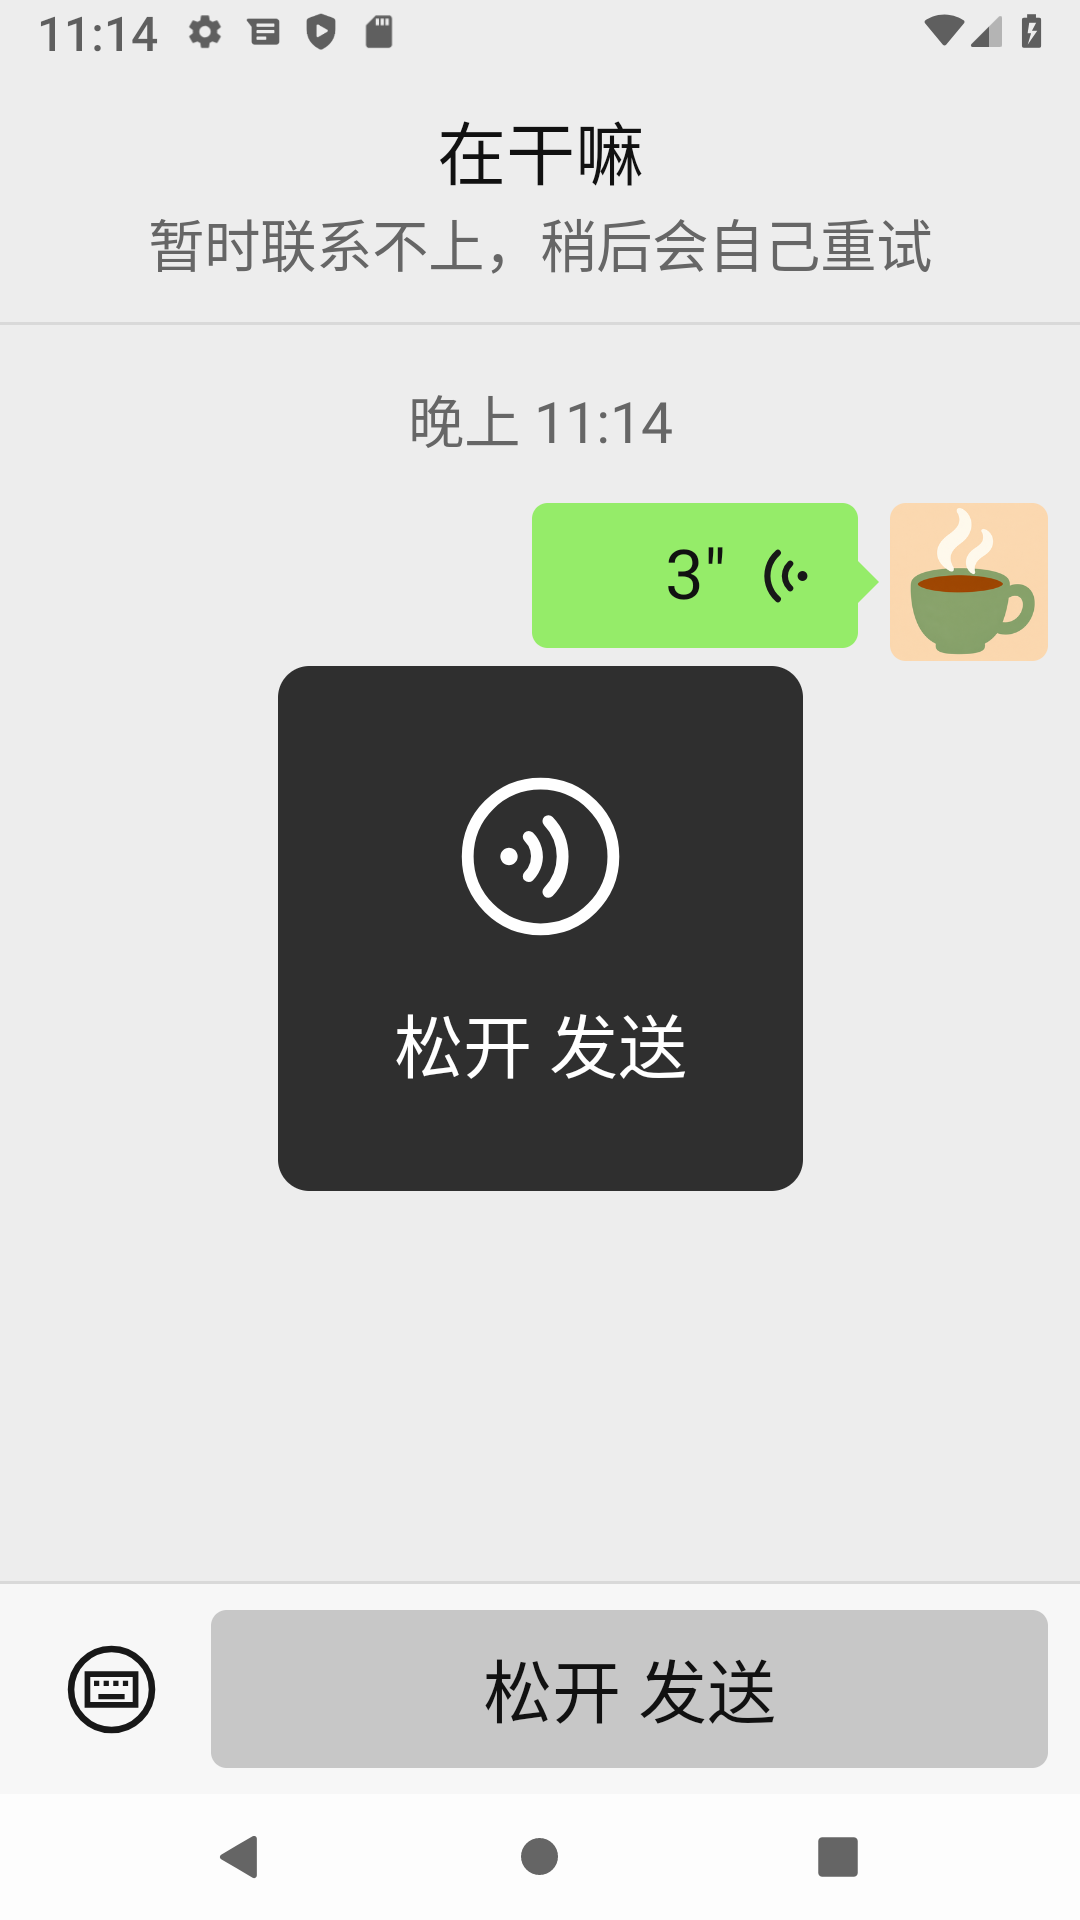
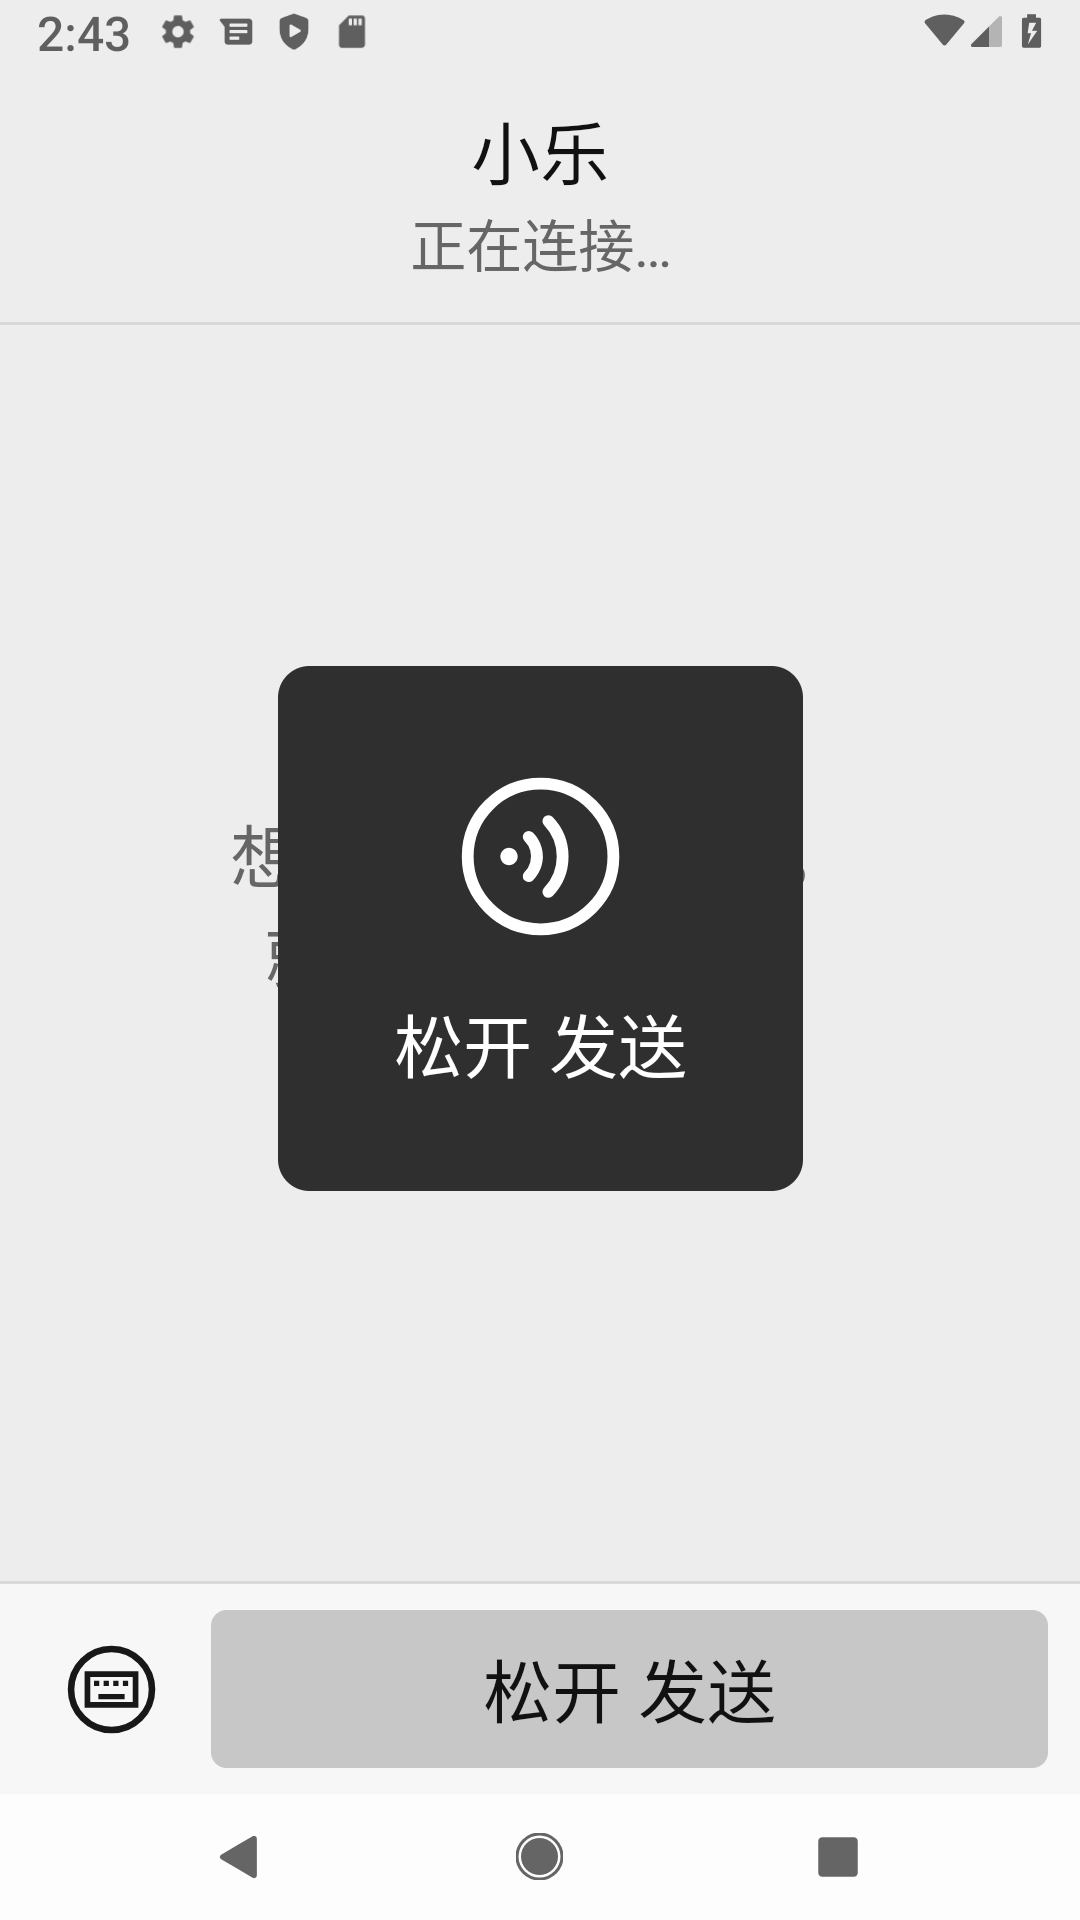
Guard the work questions beside the traps; header margins and a growable recording card
Benchmark: three cases that make 小乐 read the project page and answer the
work question without the money, sleep and quarrel lines beside it
(project-progress, client-satisfied, invoice-direct); all pass first time
and stay as guards. SKILL.md example no longer says 挺累, which the rules
forbid.

ChatScreen: Header gets 24dp side padding so the unpaired sentence no longer
runs edge to edge at large font; RecordingCard uses min 200dp with 24dp
padding instead of a fixed size so 松开 发送 and the icon fit at Huawei's
largest scales. Both re-shot at font scale 1.3.

RUNBOOK: Saturday checklist.

diff --git a/app/src/main/java/ai/openonion/whatcha/ChatScreen.kt b/app/src/main/java/ai/openonion/whatcha/ChatScreen.kt
@@ -94,7 +94,7 @@ fun ChatScreen(vm: ChatViewModel) {
 @Composable
 private fun RecordingCard(modifier: Modifier) {
     Column(
-        modifier.size(200.dp).background(Color(0xFF2F2F2F), RoundedCornerShape(12.dp)),
+        modifier.widthIn(min = 200.dp).heightIn(min = 200.dp).background(Color(0xFF2F2F2F), RoundedCornerShape(12.dp)).padding(24.dp),
         horizontalAlignment = Alignment.CenterHorizontally,
         verticalArrangement = Arrangement.Center,
     ) {
@@ -107,7 +107,7 @@ private fun RecordingCard(modifier: Modifier) {
 
 @Composable
 private fun Header(title: String, status: Status) {
-    Column(Modifier.fillMaxWidth().background(ChatBackground).padding(vertical = 14.dp), horizontalAlignment = Alignment.CenterHorizontally) {
+    Column(Modifier.fillMaxWidth().background(ChatBackground).padding(horizontal = 24.dp, vertical = 14.dp), horizontalAlignment = Alignment.CenterHorizontally) {
         Text(title, style = Body.copy(fontWeight = FontWeight.Medium))
         statusText(status)?.let { Text(it, style = Small) }
     }

diff --git a/RUNBOOK.md b/RUNBOOK.md
@@ -53,6 +53,13 @@ co host --uninstall    # also removes ~/Library/LaunchAgents/ai.connectonion.hos
 
 Both keep `.co/` (identity, conversations, logs).
 
+## Saturday checklist
+
+1. Real-notebook spot check: run the agent once with the test key against the real `~/.co/rem`, read the reply, keep it local; never paste it anywhere.
+2. Confirm the Huawei dialog wording in `INSTALL.zh-CN.md` on the phone.
+3. Tap the round button once and 允许 the microphone during setup, so the parents never see the dialog.
+4. Reboot the Mac once, log in, and confirm `co host --status` says running.
+
 ## What is never committed
 
 `family-agent/.env`, `family-agent/.co/*` except `host.yaml` (keys, contacts, `session_results.jsonl`, uploads, logs), `*.apk`, the agent's address, and the parents' or the child's real names. `.gitignore` already covers the files; the address and names are on you.

diff --git a/skills/xiaole/SKILL.md b/skills/xiaole/SKILL.md
@@ -99,7 +99,7 @@ money — tell the child at once, and tell the parents you have.
 Once a day, or when something good happens, send the parents a message without being asked. Pick the one
 best true thing since your last message. Example:
 
-「叔叔阿姨好，跟你们说个好消息：你儿子这几天做的那个项目，今天上线了，已经有人在用。他最近挺累但挺开心的，你们放心。」
+「叔叔阿姨好，跟你们说个好消息：你儿子这几天做的那个项目，今天上线了，已经有人在用。他最近挺开心的，你们放心。」
 
 If nothing new happened, a short everyday message is fine; if you have already sent one today, send none.
 Keep a record of what you sent so the child can see it.
